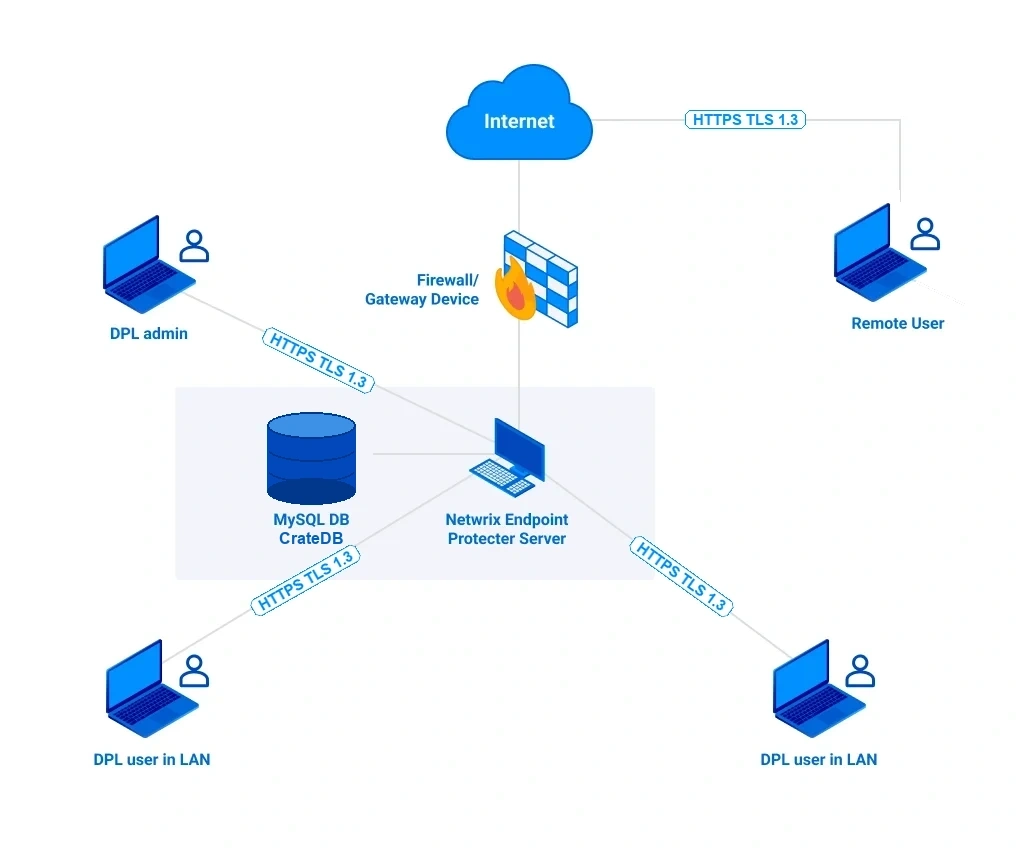
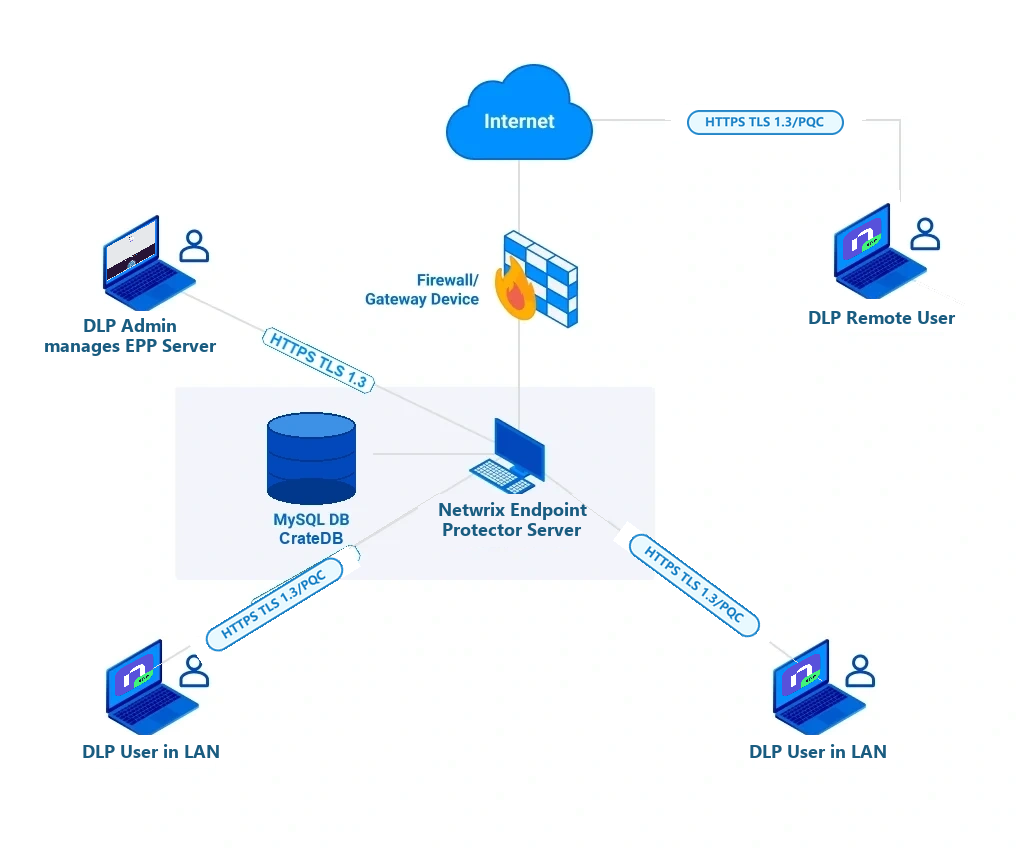
EPP minor changes to improve Linux data content, fix typo in diagram, refresh screenshots for server login and dashboard, and update client supportability content. 	modified:   docs/endpointprotector/admin/agent.md 	modified:   docs/endpointprotector/admin/dashboard.webp 	modified:   docs/endpointpr

diff --git a/docs/endpointprotector/admin/agent.md b/docs/endpointprotector/admin/agent.md
@@ -33,7 +33,8 @@ When enabling Debug logging, deploying a fresh installation, or during upgrade p
 ## Lightweight, Cross-Platform Architecture
 
 The Endpoint Protector Agent doesn't require OS kernel-level integration. This reduces the risk of
-conflicts with other security software, such as antivirus, EDR, and HIPS solutions, and keeps the
+conflicts with other security software, such as antivirus, endpoint detection and response (EDR), and
+host-based intrusion prevention system (HIPS) solutions, and keeps the
 Agent's footprint on the endpoint to a minimum.
 
 ### Kernel Independence
@@ -58,7 +59,53 @@ only differences between operating systems are in the specific applications that
 covers, since the native applications and file-handling behaviors on each OS are inherently
 platform-specific.
 
-## Agent install parameters
+### Processor Architecture Support
+
+The EPP Client supports both x86-64 and ARM64 processor architectures across Windows, macOS, and Linux:
+
+- **Windows** — x86-64 and ARM64 (Windows on ARM)
+- **macOS** — x86-64 (Intel) and ARM64 (Apple Silicon)
+- **Linux** — x86-64 and ARM64 (RHEL 10.x and Ubuntu 26.04)
+
+This gives Netwrix consistent endpoint coverage as organizations adopt ARM-based hardware, such as Apple Silicon Macs, Windows on ARM devices, and ARM-based Linux servers.
+
+## Agent Installation
+
+To see which distributions are supported for EPP, check the [supportability article](/docs/endpointprotector/supportability/client-supportability.md).
+
+For Windows and Mac, installing the Endpoint Protector Agent requires minimal input. The
+installation folder and server information come pre-configured, and you can download the Agent from
+the Endpoint Protector Server.
+
+:::note
+For Linux installation instructions, read the readmeLinux.txt file available under the Read this before installing link.
+:::
+
+The main supported Linux distributions include:
+- Ubuntu
+- RedHat
+
+:::note
+For Ubuntu-based distributions outside the officially tested and certified list, such as Mint Linux, and RHEL-based distributions such as Rocky Linux, Oracle Linux, or CentOS, the EPP Client installer built for the corresponding base version generally works without additional configuration. In some cases, the Linux administrator might need to manually adjust dependencies to match the base distribution. For installation steps, see [Linux](/docs/endpointprotector/admin/agent.md#linux) install guide under Agent Install Parameters in the Agent documentation.
+:::
+
+Netwrix provides optional distributions on the product portal upon request, after the Netwrix Product Team validates them. The following are examples of on-demand distributions:
+- Debian
+- Fedora
+- Pardus OS
+- AWS Linux
+- OpenSUSE
+- SUSE
+- SLED Linux Enterprise Server
+
+Beyond this list, Netwrix can also build a Client for the latest version of other custom Linux distributions on request, as a **Feature Request (FR)** through Netwrix Support. Netwrix Product Management reviews and prioritizes these requests, which may involve a billable service. For details, see [Linux Clients](/docs/endpointprotector/supportability/client-supportability.md#linux-clients) in the Netwrix Endpoint Protector Agent Support Policy.
+
+![The Agent enforces the Rights and Settings received from the Endpoint Protector Server on the protected endpoints (Windows, Mac, and Linux)](setupagent.webp)
+
+![The Agent enforces the Rights and Settings received from the Endpoint Protector Server on the protected endpoints (Windows, Mac, and Linux)](setupagenttwo.webp)
+
+
+### Agent install parameters
 
 To improve the Endpoint Protector installation process, use the Endpoint Protector tool to run
 installation-related actions, identify your current Linux distribution, and view Endpoint
@@ -74,7 +121,7 @@ Use the following commands:
 **Optional CLI commands for installers**
 
 
-### Windows
+#### Windows
 You can also apply manual proxy settings using CLI commands:
 
 Example:
@@ -103,14 +150,14 @@ You can also use the following CLI commands to install Endpoint Protector Client
 Starting with the 2511 Clients release, the install parameters "IPV6MAPPING," "SUPPRESSRD," and "DISABLECAP" will persist during the EPP Client upgrade process.
 :::
 
-### macOS
+#### macOS
 :::note
 For macOS, contact the Netwrix Support team to obtain the latest version of the
 installer script, which lets you customize installation parameters.
 :::
 
 
-### Linux
+#### Linux
 
 For Linux, you can use CLI arguments only in the options.sh file to bypass proxy settings. To do so,
 follow these steps:
@@ -149,7 +196,7 @@ Additional CLI commands for Linux in specific mode:
 - #EPPCLIENT_SUPRESSRW - suppress FileRead/FileDelete events for NS and Removable devices
 - #EPPCLIENT_DISABLECAP - disabling loading of CAP drivers (CAP will not work)
 
-## Bypass Proxy Settings
+### Bypass Proxy Settings
 
 You can bypass proxy settings for all operating systems.
 
@@ -165,38 +212,6 @@ then provide the following information:
 - Select the Use authentication checkbox
 - Username – add proxy server username
 - Password – add proxy server password
-
-## Agent Installation
-
-To see which distributions are supported for EPP, check the [supportability article](/docs/endpointprotector/supportability/client-supportability.md).
-
-For Windows and Mac, installing the Endpoint Protector Agent requires minimal input. The
-installation folder and server information come pre-configured, and you can download the Agent from
-the Endpoint Protector Server.
-
-:::note
-For Linux installation instructions, read the readmeLinux.txt file available under the Read
-this before installing link.
-:::
-
-
-The main supported Linux distributions include:
-
-- Ubuntu
-- RedHat
-
-Netwrix provides optional distributions on the product portal upon request, after the Netwrix Product Team validates them. The following are examples of on-demand distributions:
-- Debian
-- Fedora
-- Pardus OS
-- AWS Linux
-- OpenSUSE
-- SUSE
-- SLED Linux Enterprise Server
-
-![The Agent enforces the Rights and Settings received from the Endpoint Protector Server on the protected endpoints (Windows, Mac, and Linux)](setupagent.webp)
-
-![The Agent enforces the Rights and Settings received from the Endpoint Protector Server on the protected endpoints (Windows, Mac, and Linux)](setupagenttwo.webp)
 
 ### Increased Communication Security
 
@@ -322,9 +337,7 @@ While the installation process is similar, each distribution and version have th
 particularities.
 
 The following are several examples of supported distributions:
-
 - RedHat
-- CentOS
 - Fedora
 - AWS Linux 2
 

diff --git a/docs/endpointprotector/supportability/client-supportability.md b/docs/endpointprotector/supportability/client-supportability.md
@@ -120,6 +120,16 @@ Following the official operating system vendor policies makes it possible to:
 
 The following outlines the current Netwrix OS support approach for Windows, macOS, and Linux environments, including version requirements, exceptions, and links to vendor documentation for up‑to‑date lifecycle information.
 
+### Processor Architecture Support
+
+The EPP Client supports both x86-64 and ARM64 processor architectures across all three supported platforms:
+
+- **Windows** — x86-64 and ARM64 (Windows on ARM)
+- **macOS** — x86-64 (Intel) and ARM64 (Apple Silicon)
+- **Linux** — x86-64 and ARM64 (RHEL 10.x and Ubuntu 26.04)
+
+This ensures consistent DLP coverage regardless of the underlying CPU architecture, including on Apple Silicon Macs, Windows on ARM devices, and ARM-based Linux servers.
+
 ### Windows Client and Server OS Support
 
 Netwrix Endpoint Protector (EPP) Agent supports all **Microsoft Windows client and server operating systems** that remain within Microsoft’s **Mainstream Support** or **Extended Security Update (ESU)** phase. This includes:
@@ -165,18 +175,17 @@ More information:
 
 ### Linux Clients
 
-Netwrix tests and certifies the EPP Client for Linux against:
+Netwrix delivers Data Loss Prevention (DLP) coverage across a wide set of Linux distributions, spanning officially certified, on-request, and community-compatible builds. The EPP Client for Linux is kernel neutral — it doesn't rely on kernel-level modules — which keeps it broadly compatible across Linux distributions and kernel versions without a rebuild for each one. See [Kernel Independence](/docs/endpointprotector/admin/agent.md#kernel-independence) in the Agent documentation for details.
 
+Netwrix tests and certifies the EPP Client for Linux against:
 - Ubuntu LTS versions that are still within their official support lifecycle
 - Red Hat Enterprise Linux versions that are still within their official support lifecycle (highest minor release for each version only.)
 
 References:
-
 - [Ubuntu Release Cycle](https://ubuntu.com/about/release-cycle)
 - [Red Hat Updates and Support Policy](https://access.redhat.com/support/policy/updates/errata)
 
-Netwrix doesn't build an EPP Client for the following Linux distributions by default, but you can request one, or a custom Linux distribution, as a **Feature Request (FR)** through Netwrix Support:
-
+Netwrix doesn't build an EPP Client for the following Linux distributions by default:
 - Debian
 - Fedora
 - SUSE
@@ -184,6 +193,8 @@ Netwrix doesn't build an EPP Client for the following Linux distributions by def
 - SLED Linux Enterprise Server
 - Pardus OS
 - AWS Linux 2
+
+Netwrix builds a Client for the latest version of any of these, or for a custom Linux distribution, on request, as a **Feature Request (FR)** through Netwrix Support.
 
 Netwrix Product Management reviews and prioritizes these requests, which may involve a billable service. After approval, Netwrix builds the client using a **Quick Test** process in QA, and you're responsible for verifying that all functionality works as expected.
 
